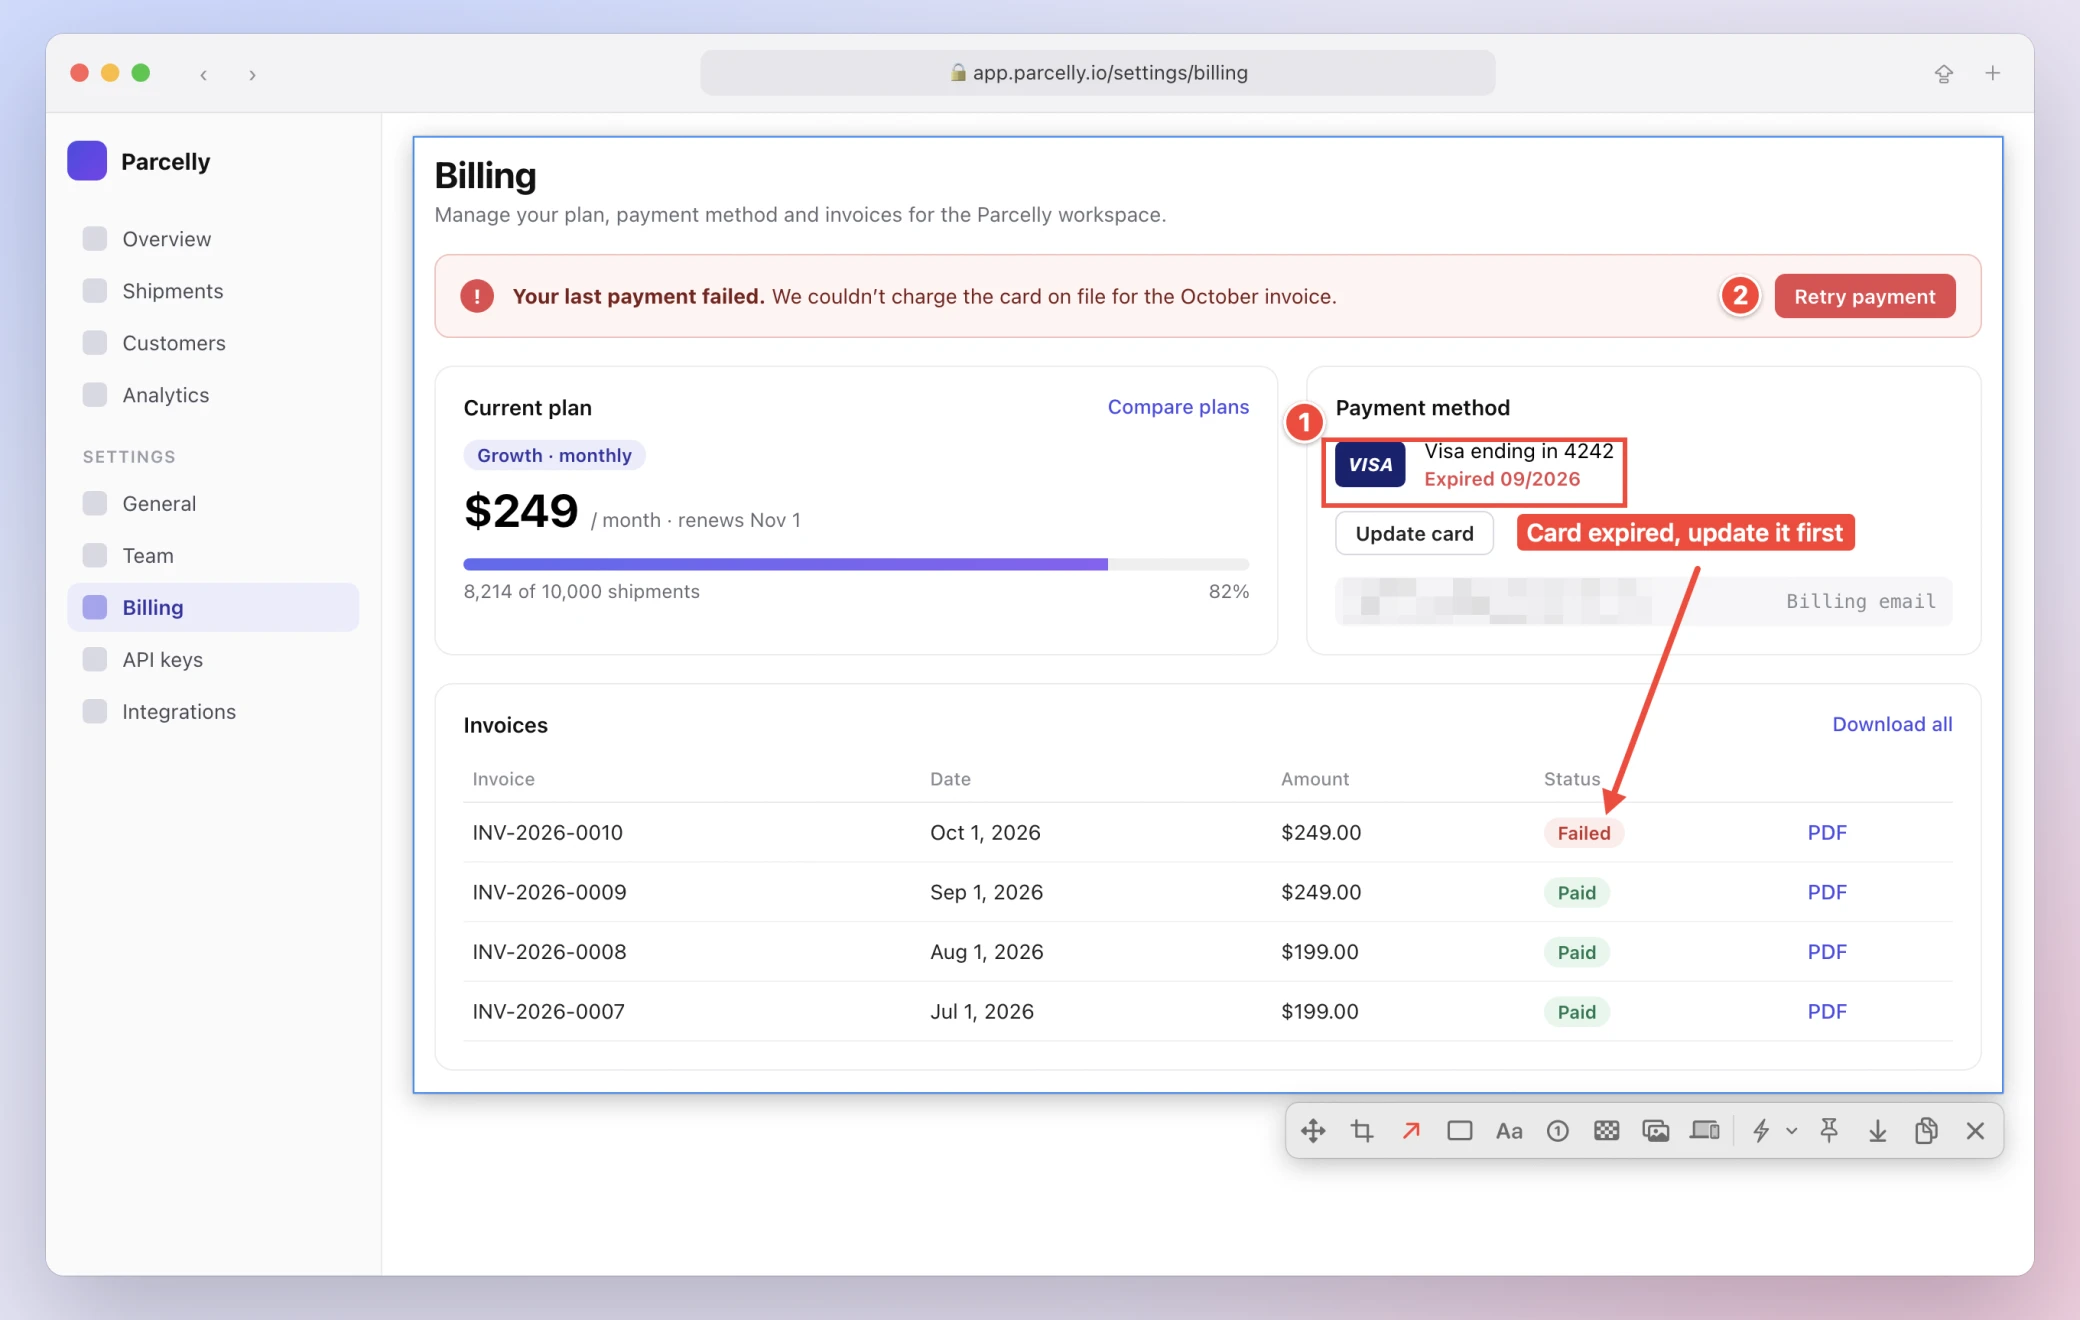
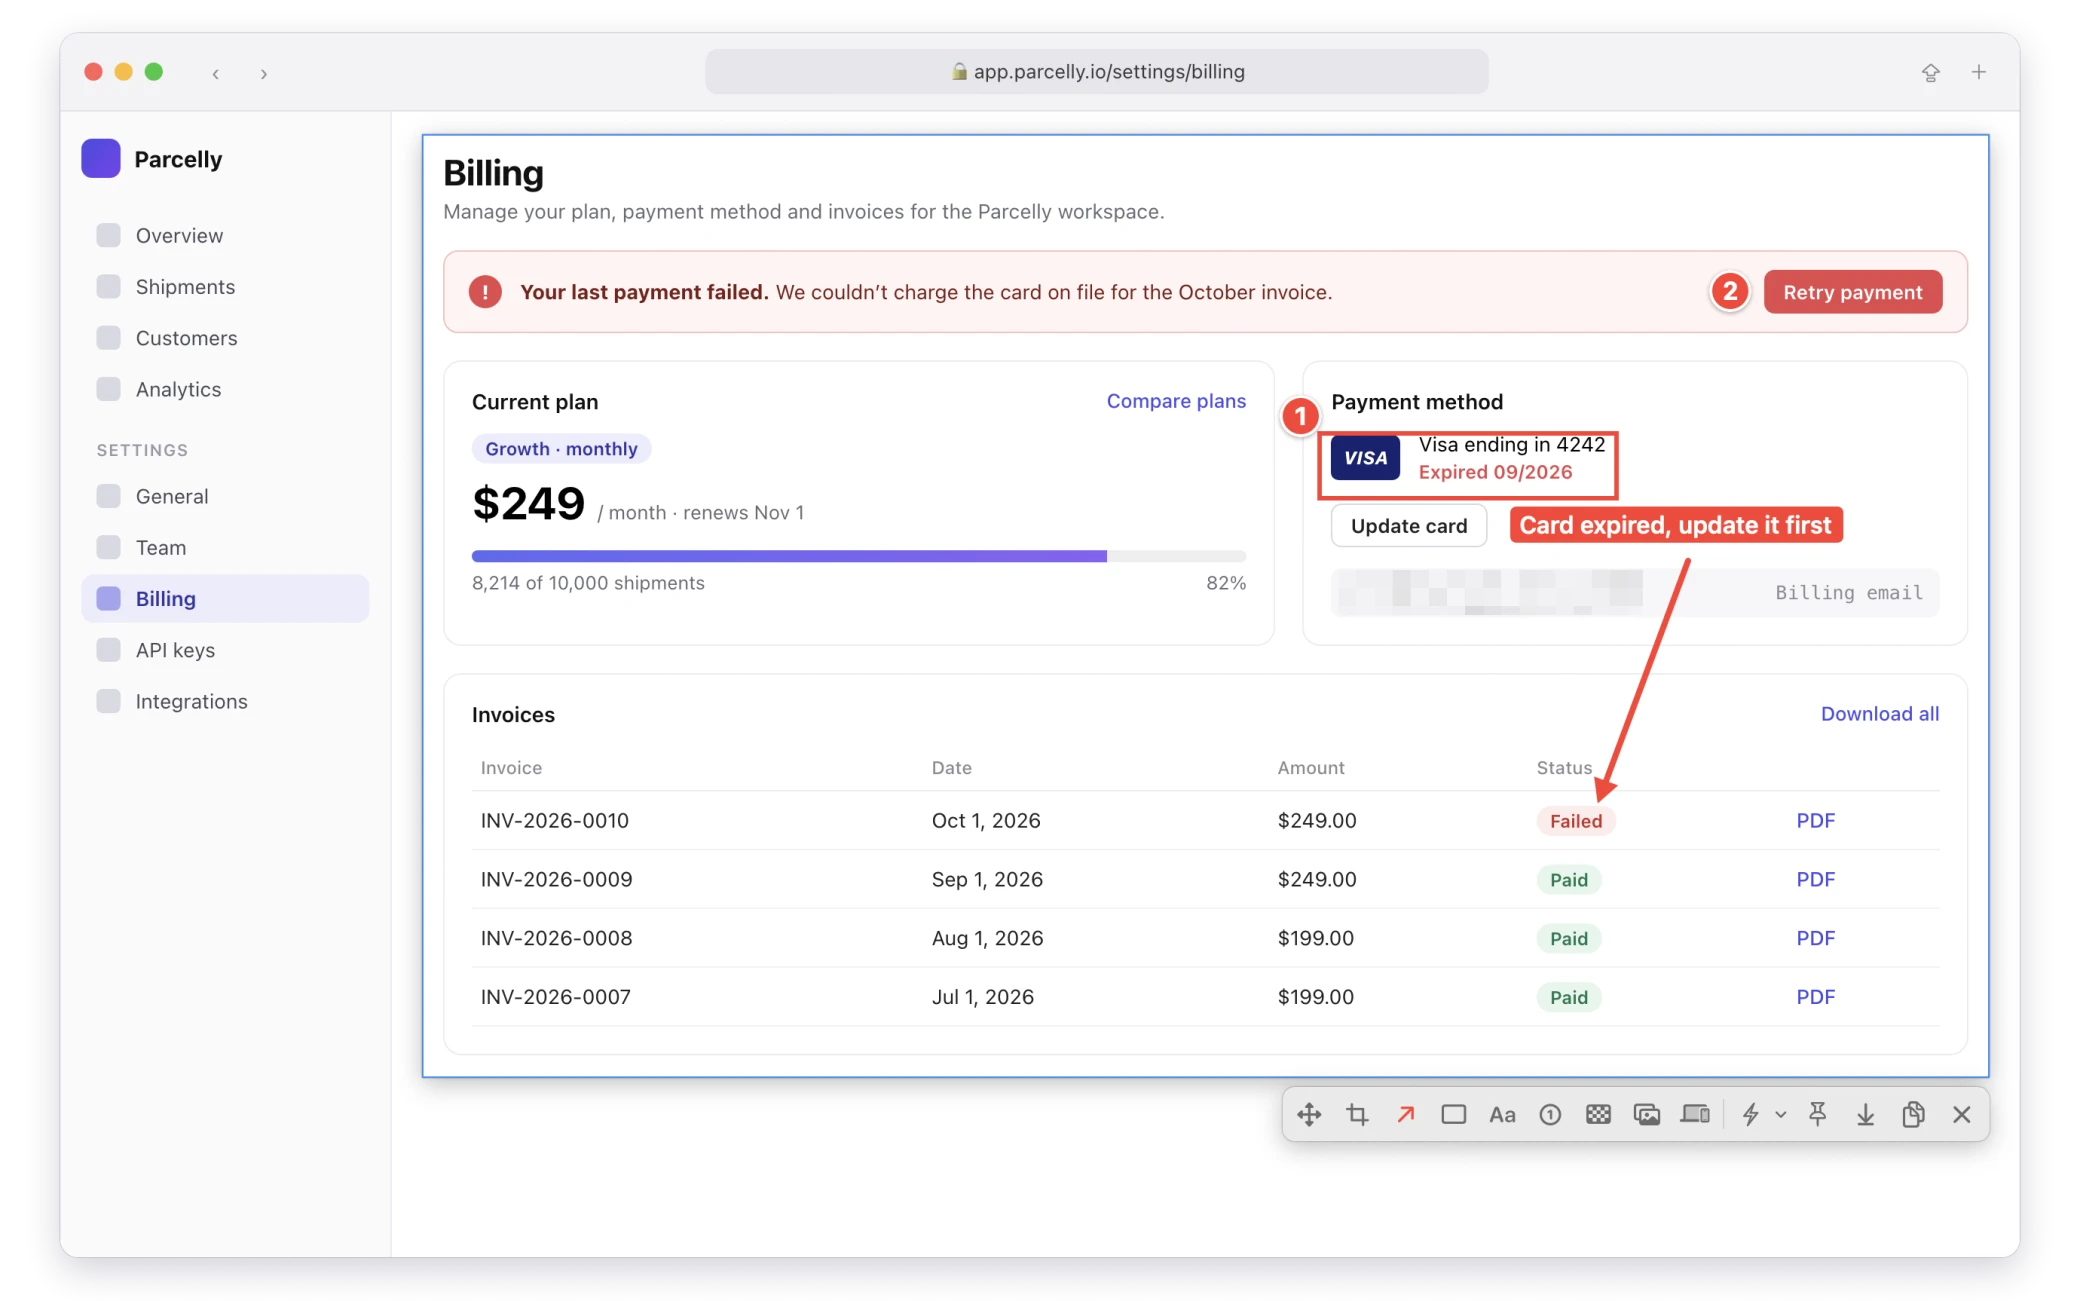
Hero 配图去掉紫色壁纸背景，改为透明背景的窗口

diff --git a/src/components/Hero.tsx b/src/components/Hero.tsx
@@ -30,7 +30,7 @@ const Hero: React.FC = () => {
                 <Image
                     src={heroDetails.centerImageSrc}
                     width={1040}
-                    height={660}
+                    height={650}
                     priority={true}
                     unoptimized={true}
                     alt="The Shotsmith editor open on a captured billing page, with numbered steps, a box, an arrow, a text label, a mosaic over the email, and the floating toolbar"
